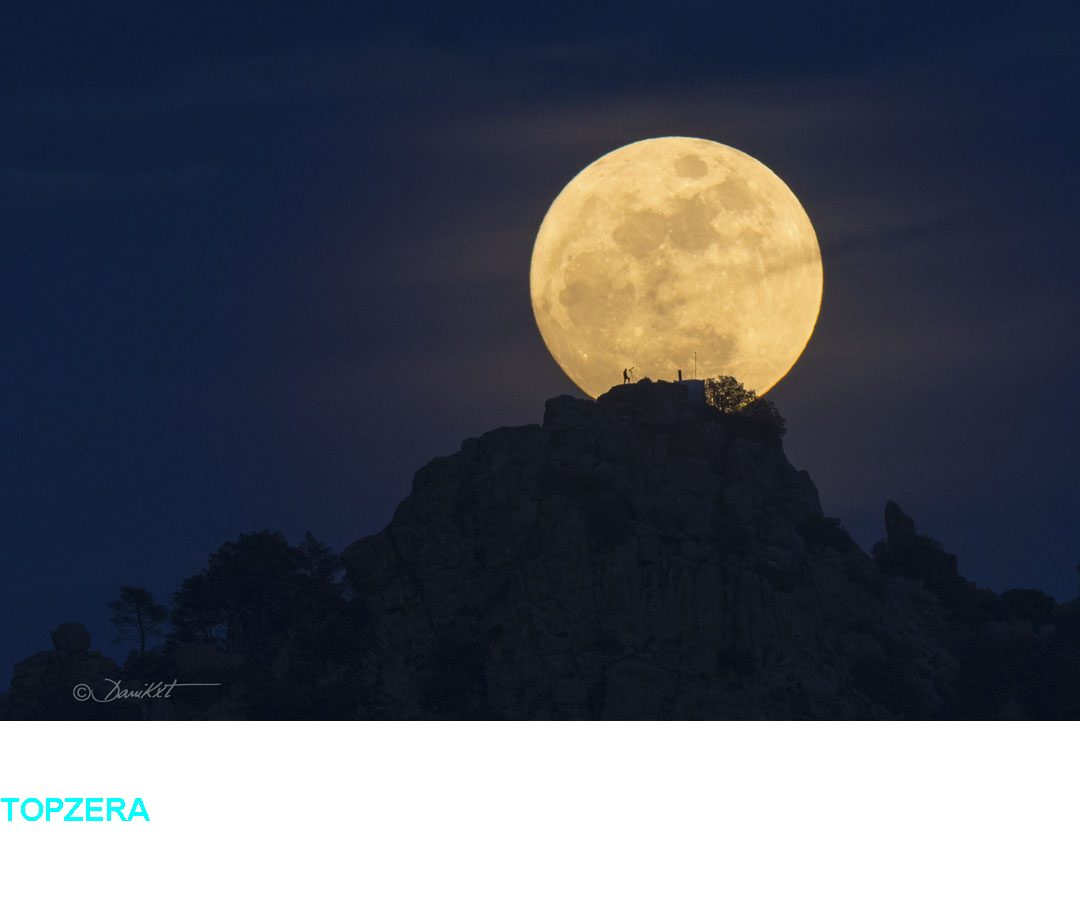
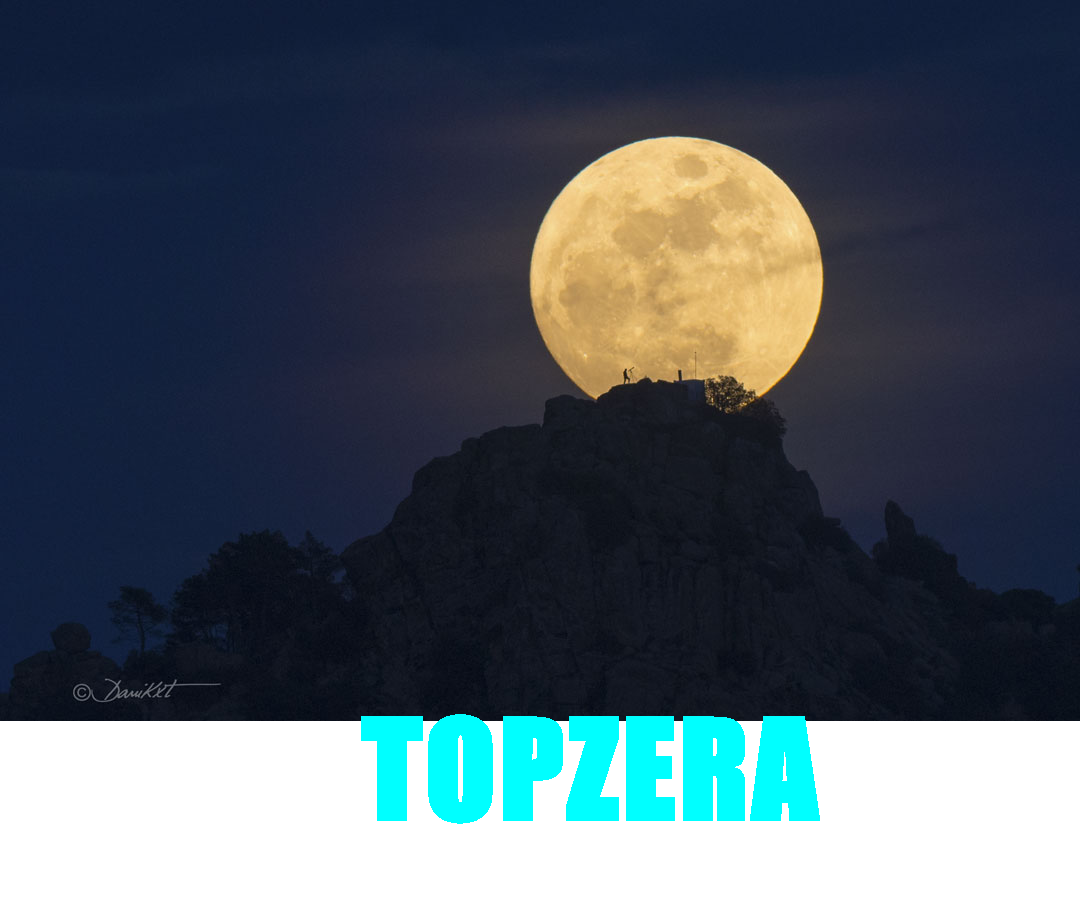
sticker generator from aula 02

Changed region(s): [[0.3361, 0.76, 0.7639, 0.9121], [0.0, 0.8512, 0.1528, 0.9121]]

diff --git a/src/StickerGenerator.java b/src/StickerGenerator.java
@@ -10,7 +10,9 @@ public class StickerGenerator {
 
     public void Generate(InputStream inputStream, String stickerText, String fileName) throws Exception
     {
-        //Essa função cria uma figurinha (imagem com texto transparente), recebe como argumentos um InputStream de uma imagem, um String do texto da figurinha e o nome do arquivo a ser salvo.
+        //  Essa função cria uma figurinha (imagem com texto transparente), recebe como argumentos um InputStream de uma imagem, 
+        //  um String do texto da figurinha e o nome do arquivo a ser salvo.
+
         // leitura da imagem
         BufferedImage imagemOriginal = ImageIO.read(inputStream);
         
@@ -25,10 +27,10 @@ public class StickerGenerator {
         graphics.drawImage(imagemOriginal, 0, 0, null);
 
         // escrever uma frase na nova imagem
-        Font fonte = new Font(Font.SANS_SERIF, Font.BOLD, 32);
+        Font fonte = new Font("Impact", Font.BOLD, 128);
         graphics.setFont(fonte);
         graphics.setColor(Color.CYAN);
-        graphics.drawString(stickerText, 0, novaAltura - 100);
+        graphics.drawString(stickerText, (width/3), novaAltura - 100);
 
         // escrever a nova imagem em um arquivo
         fileName = fileName.replace(":", "-"); // Substitui o ":" por "-" para evitar problemas com o Windows
